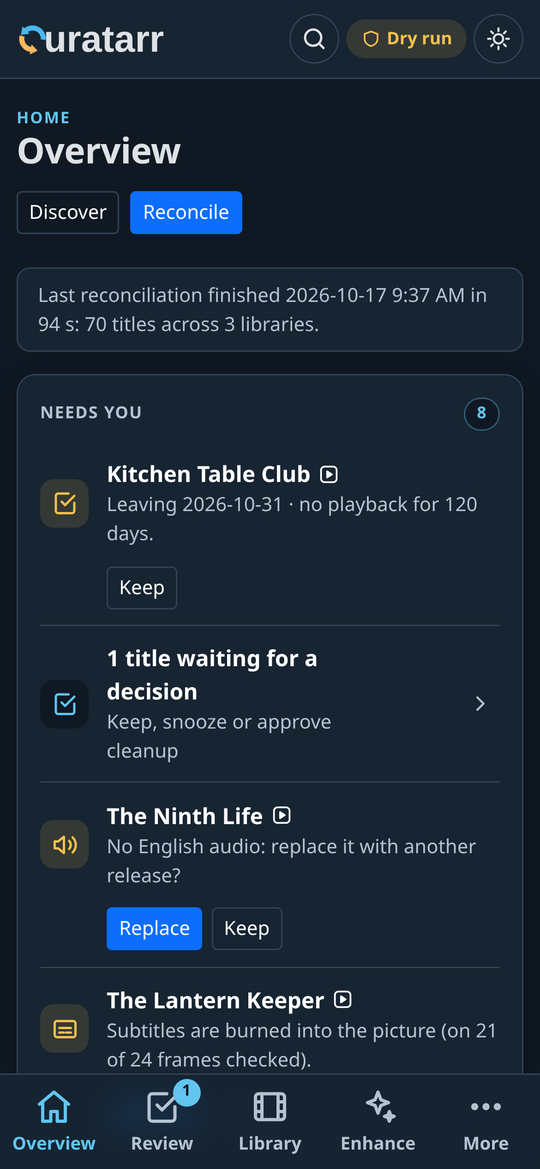
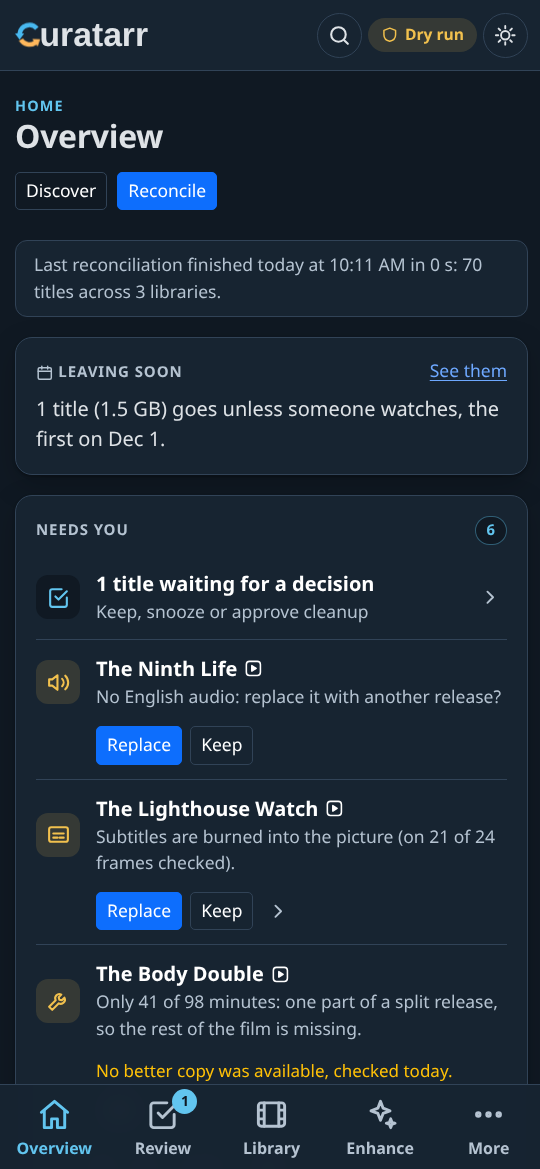
Retake the README screenshots and write the 0.2.0 summary
The Overview, Review, Problems and phone screenshots are retaken from
the demo, dressed by a new scripts/stage_screenshots.py (made-up titles
and posters, a three-title review queue, one example of each problem),
so they can be redone at any release. The changelog opens with a
summary of everything in 0.2.0, for the final release's notes.

diff --git a/scripts/stage_screenshots.py b/scripts/stage_screenshots.py
@@ -1,0 +1,225 @@
+"""Dress the demo library for the README's screenshots.
+
+Run on a demo database only (it refuses anything else), after `demo-seed`
+and `worker --once`:
+
+    CURATARR_DEMO_MODE=true DATABASE_URL=sqlite:////tmp/demo.db \\
+        .venv/bin/python scripts/stage_screenshots.py
+
+It gives some demo titles made-up names, keeps a short review queue (one
+Leaving Soon, one to review, one only recommended), and adds one example of
+each kind of problem: subtitles burned into the picture, a file cut short
+being replaced, a split film with no better copy, a film with no English
+audio, and a namesake show filed under a series. Then capture the pages at
+1280 px wide (docs/DEVELOPMENT.md, Screenshots).
+"""
+
+import base64
+import colorsys
+import zlib
+from datetime import timedelta
+from io import BytesIO
+
+from curatarr import create_app, db
+from curatarr.models import (
+    AppSetting,
+    ChapterState,
+    Library,
+    MediaIdentity,
+    MediaPart,
+    PurgeCandidate,
+    utcnow,
+)
+from curatarr.services import set_setting
+
+SHOWS = {
+    "Demo Series 01": "Harbor Lights",  # the demo's missing always-keep episode
+    "Demo Series 05": "Kitchen Table Club",
+    "Demo Series 07": "Dry Creek Mesa",
+}
+LIBRARIES = {
+    "Demo Movies": "Movies",
+    "Demo TV A": "Shows",
+    "Demo TV B": "Kids & Family",
+}
+FILMS = {
+    "Demo Movie 08": "The Quiet Year",
+    "Demo Movie 03": "Thunder Road Trip",
+    "Demo Movie 11": "The Lighthouse Watch",
+    "Demo Movie 14": "Overdue",
+    "Demo Movie 17": "The Body Double",
+    "Demo Movie 21": "The Ninth Life",
+}
+
+
+def _poster(title: str) -> bytes:
+    """A simple made-up poster: a sky, a moon, hills and the title."""
+    from PIL import Image, ImageDraw, ImageFont
+
+    hue = (zlib.crc32(title.encode()) % 360) / 360
+    sky = tuple(round(c * 255) for c in colorsys.hsv_to_rgb(hue, 0.55, 0.45))
+    hills = tuple(round(c * 255) for c in colorsys.hsv_to_rgb(hue, 0.6, 0.18))
+    image = Image.new("RGB", (300, 450), sky)
+    draw = ImageDraw.Draw(image)
+    draw.ellipse((190, 60, 250, 120), fill="#E8F1F2")
+    draw.polygon(
+        [(0, 330), (90, 270), (170, 310), (240, 260), (300, 300), (300, 450), (0, 450)],
+        fill=hills,
+    )
+    font = ImageFont.truetype("DejaVuSerif-Bold.ttf", 22)
+    words, lines = title.upper().split(), [""]
+    for word in words:
+        trial = (lines[-1] + " " + word).strip()
+        if draw.textlength(trial, font=font) > 260 and lines[-1]:
+            lines.append(word)
+        else:
+            lines[-1] = trial
+    y = 450 - 30 - 28 * len(lines)
+    for line in lines:
+        draw.text(
+            ((300 - draw.textlength(line, font=font)) / 2, y),
+            line,
+            font=font,
+            fill="#F4F4F4",
+        )
+        y += 28
+    out = BytesIO()
+    image.save(out, format="JPEG", quality=90)
+    return out.getvalue()
+
+
+def _media(old, new):
+    media = db.session.query(MediaIdentity).filter_by(title=old).one()
+    media.title = media.sort_title = new
+    if media.jellyfin_id:
+        key = f"demo_image:{media.jellyfin_id}"
+        row = db.session.query(AppSetting).filter_by(key=key).first()
+        if row is None:
+            row = AppSetting(key=key)
+            db.session.add(row)
+        row.value_json = base64.b64encode(_poster(new)).decode()
+    if media.media_type == "movie":
+        for part in media.parts:
+            part.file_path = f"/movies/{new}/{new}.mkv"
+    return media
+
+
+def _state(media):
+    part = db.session.query(MediaPart).filter_by(media_identity_id=media.id).first()
+    state = (
+        db.session.query(ChapterState).filter_by(media_part_id=part.id).one_or_none()
+    )
+    if state is None:
+        state = ChapterState(media_part_id=part.id, media_identity_id=media.id)
+        db.session.add(state)
+    return state
+
+
+def stage():
+    if not db.session.query(MediaIdentity).filter_by(title="Demo Series 01").first():
+        raise SystemExit("Not a freshly seeded demo database; nothing changed.")
+    now = utcnow()
+    for old, new in LIBRARIES.items():
+        db.session.query(Library).filter_by(name=old).one().name = new
+    named = {new: _media(old, new) for old, new in {**SHOWS, **FILMS}.items()}
+
+    # The review queue: three titles, one in each state.
+    db.session.query(PurgeCandidate).delete()
+    for title, state, reason, days in (
+        ("Kitchen Table Club", "LEAVING_SOON", "no playback for 120 days.", 21),
+        (
+            "Thunder Road Trip",
+            "REVIEW",
+            "No playback observed for more than 90 days.",
+            None,
+        ),
+        (
+            "The Quiet Year",
+            "ELIGIBLE",
+            "No playback observed for more than 90 days.",
+            None,
+        ),
+    ):
+        media = named[title]
+        db.session.add(
+            PurgeCandidate(
+                media_identity_id=media.id,
+                state=state,
+                reason_code="inactivity",
+                reason_text=reason,
+                reclaimable_bytes=sum(p.size_bytes or 0 for p in media.parts)
+                or 1_900_000_000,
+                scheduled_delete_at=now + timedelta(days=days) if days else None,
+            )
+        )
+
+    # Problems: one of each kind.
+    checked = now.isoformat()
+    lantern = _state(named["The Lighthouse Watch"])
+    lantern.file_checked_at = now
+    lantern.file_problem = True
+    lantern.file_check = {
+        "issues": [],
+        "transcript": True,
+        "subtitles": {"verdict": "burned", "hits": 21, "samples": 24},
+    }
+    overdue = _state(named["Overdue"])
+    overdue.file_checked_at = now
+    overdue.file_problem = True
+    overdue.file_check = {
+        "issues": [
+            {
+                "kind": "truncated",
+                "text": "The picture stops at 1:12:40 of 1:51:05: probably an "
+                "incomplete download",
+            }
+        ],
+        "replace_requested": True,
+        "replace_auto": True,
+    }
+    double = _state(named["The Body Double"])
+    double.file_checked_at = now
+    double.file_problem = True
+    double.file_check = {
+        "issues": [
+            {
+                "kind": "short",
+                "text": "Only 41 of 98 minutes: one part of a split release, so "
+                "the rest of the film is missing",
+            }
+        ],
+        "no_better": {"checked": 4, "at": checked},
+    }
+    ninth = _state(named["The Ninth Life"])
+    ninth.dub_checked_at = now
+    ninth.dub_result = {"original": "fr", "verdict": "no_english"}
+    mesa = named["Dry Creek Mesa"]
+    set_setting(
+        "wrong_versions",
+        {
+            mesa.id: {
+                "verdict": {
+                    "files": [{"id": n} for n in range(9)],
+                    "evidence": [
+                        (
+                            "9 of 10 file names say 1987, but Dry Creek Mesa "
+                            "started in 2019"
+                        )
+                    ],
+                }
+            }
+        },
+    )
+    db.session.commit()
+    from curatarr.artwork import reconcile_artwork
+
+    reconcile_artwork()  # Leaving Soon's banner, on the new poster
+    print("Staged:", ", ".join(sorted(named)))
+
+
+if __name__ == "__main__":
+    app = create_app()
+    if not app.config["DEMO_MODE"]:
+        raise SystemExit("Demo mode only: set CURATARR_DEMO_MODE=true.")
+    with app.app_context():
+        stage()

diff --git a/CHANGELOG.md b/CHANGELOG.md
@@ -1,5 +1,43 @@
 # Changelog
 
+## 0.2.0 (release candidate; notes for the final release)
+
+0.1.0 was the cleanup engine on its own. 0.2.0 turns Curatarr into the household's librarian: it decides what goes when space runs short, with everyone's say, and makes every file nicer to watch on every device. The release candidates below say what changed, week by week; this is the whole of it.
+
+**Keeping the right things on disk**
+- **Leaving Soon**, everywhere people look: a countdown on the poster, the home-screen card and the background, a Jellyfin collection, and Delete in any Jellyfin app marks a title Leaving Soon instead of deleting it behind Radarr's and Sonarr's backs (with the Curatarr plugin for Jellyfin). Playing a title or Keep saves it.
+- **Cleanup driven by free space**, with **Compression first** (waits for Tdarr or another transcoder), **Shrink instead of delete**, a **disk forecast**, and **dry run** on by default.
+- **The household's choices count:** Seerr requests stay until watched, favourites and rewatches go to the back of the line, import-list arrivals go first, **seasonal shelves** keep Halloween and Christmas films through their season, **Leave after watched** for one last watch.
+- **Last call:** films nobody has watched in a year get a "Last call · ♥ to keep" banner and a collection, a few a week, before Leaving Soon; a heart in any app keeps one.
+- **TV one season ahead:** finish an episode and the rest of the season is requested; shows nobody continues stop downloading, and every show keeps its first few episodes.
+
+**What to watch next**
+- **Picks for each person:** a private Jellyfin playlist of ten unwatched films matched to what each account likes, in every app, Roku included.
+- **Film series and suggestions:** the series you have part of, **Find Favorites** to complete a favourite's series, and suggestions ranked by the household's taste.
+- **What's next is ready first:** episodes people are about to watch get their chapters, subtitles and skip markers before the back catalogue.
+- **Finished at the credits:** something stopped in its end credits counts as watched.
+
+**Every file nicer to watch** (local Whisper and Ollama, nothing leaves the machine)
+- **Chapters** named from what's said, for files that have none or only useless ones.
+- **Subtitles** for files with no English ones, transcribed by Whisper large-v3-turbo with every line kept, each line timed from its words, at a chosen reading speed; downloaded subtitles that are out of sync are re-timed.
+- **Skip markers:** "previously on" and "next time on" get Jellyfin's skip button; Intro Skipper's intros are widened to the footage the season shares, end credits start where the lettering does, and plainly wrong guesses are hidden, each undoable.
+- **Search by what was said**, and **Fun facts** ranking the library by what's said in it.
+
+**Bad downloads, caught and fixed**
+- **File problems:** burned-in subtitles, files cut short or cut off, decoding errors, with Replace that only deletes once a better copy is confirmed.
+- **The wrong show**, **misfiled episodes**, **failed imports** and **English dubs** that aren't English, each fixed automatically when Curatarr can be sure (Settings → Automatic), or listed for you.
+- **No English to be found:** a film an import list added with no English audio, and none anywhere, goes Leaving Soon and stays off the lists.
+
+**Plays smoothly everywhere**
+- Each device gets the copy and audio track it plays as it is; stereo AAC for browsers and AC3 for TVs that need it; the film's own soundtrack and English first; files Roku can't seek in rebuilt; unwanted subtitle tracks removed. Nothing is ever re-encoded.
+- Curatarr measures CPU, GPU and who's watching, and backs off when someone starts a stream.
+
+**Pictures**
+- **Custom posters** and the rest of a title's pictures, for everyone or for chosen accounts; **favourite ribbons** with who favourited; **posters in your language**; pictures **made with an AI**, locally through ComfyUI or with Codex, with your review before anything changes.
+
+**For administrators**
+- Household accounts that can Keep, Snooze or Never Purge; History of everything done and why; one progress bar for all background work, with honest time estimates; **Pause all work**; a read-only API and webhook endpoints (docs/API.md).
+
 ## 0.2.0rc127 (2026-11-10)
 
 - **The Leaving Soon collection's picture shows the four titles leaving soonest**, redrawn as that changes. It was four titles in no particular order. The Last Call collection's picture does the same: Leaving Soon titles by their date first, then films in Last call by when they move on.

diff --git a/docs/DEVELOPMENT.md b/docs/DEVELOPMENT.md
@@ -82,4 +82,4 @@ GitHub runs the tests and linters on every push (`.github/workflows/tests.yml`),
 
 ## Screenshots
 
-The Overview and Review images in `docs/images/` come from demo mode (`CURATARR_DEMO_MODE=true`, `demo-seed`, `worker --once`), captured at 1280 px wide. Demo mode has no media files, so the Chapter maintenance image shows counts from a real library.
+The Overview, Review, Problems and phone images in `docs/images/` come from demo mode, dressed for the purpose: on a scratch database, run `db upgrade`, `demo-seed` and `worker --once` with `CURATARR_DEMO_MODE=true`, then `python scripts/stage_screenshots.py`, which gives some demo titles made-up names and posters, keeps a three-title review queue and adds one example of each problem. Capture at 1280 px wide (432 px for the phone) with a device scale of 1.25. Demo mode has no media files, so the Enhance progress image shows counts from a library, with its names changed.
